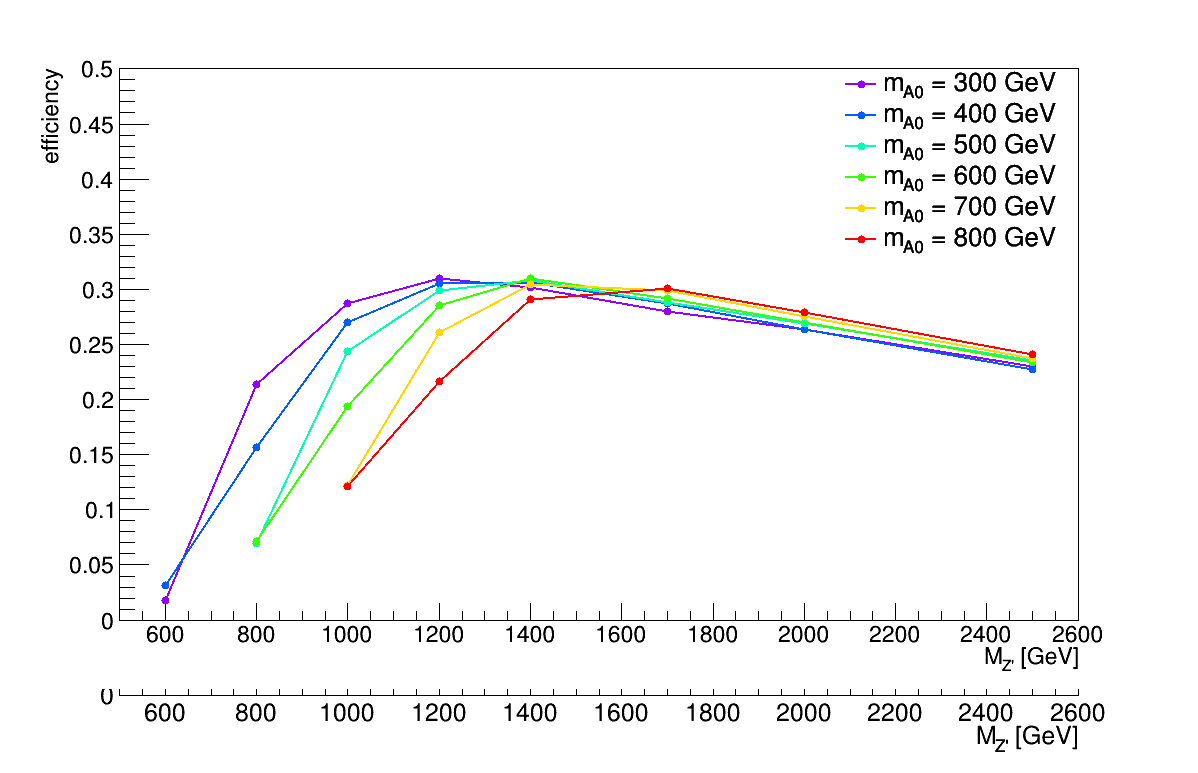
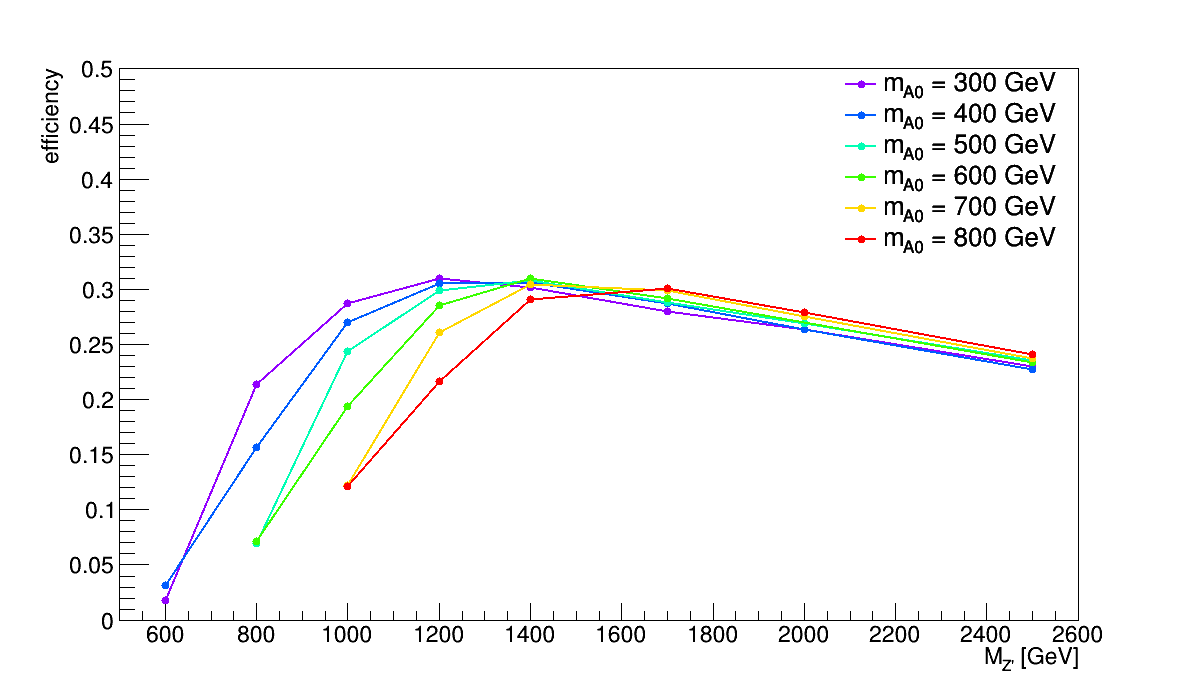
fix figure

diff --git a/effplot/V12/readtxt.C b/effplot/V12/readtxt.C
@@ -163,7 +163,7 @@ effplot[j]->SetMarkerColor(linecolor[j]);
 effplot[5]->SetTitle("");
 effplot[5]->GetXaxis()->SetTitle("M_{Z'} [GeV]");
 effplot[5]->GetYaxis()->SetTitle("efficiency");
-
+c1->Clear();
 for (int i=0;i<6;i++) {
 	effplot[i]->GetXaxis()->SetLimits(500.,2600.);
 	effplot[i]->SetMinimum(0.);
@@ -182,7 +182,7 @@ for (int i=0;i<6;i++){
 }
 
 
-effplot[0]->Draw("LP");
+effplot[0]->Draw("LPsame");
 for (int i=1;i<6;i++) {
 	effplot[i]->Draw("LPsame");
 }
